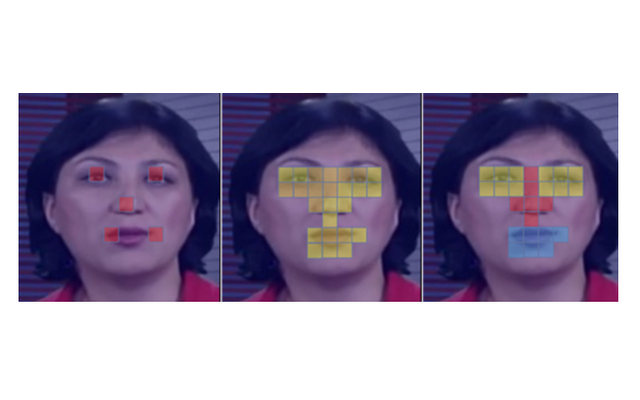
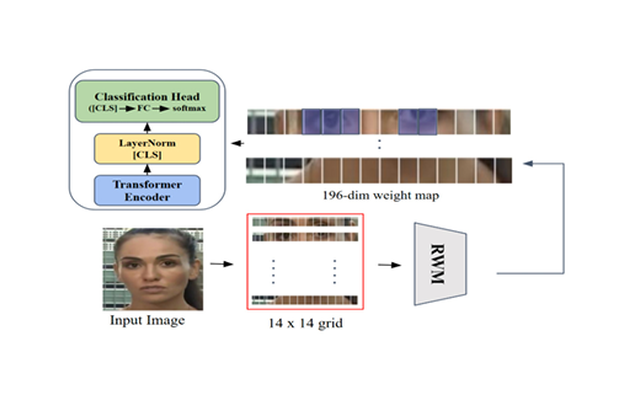
Use overview figures for publications and fix the LG Aimers final rank
The LG Aimers final result is 18th of 33 teams, as on DACON. Rebuild
both CVs.

diff --git a/README_EN.md b/README_EN.md
@@ -16,7 +16,7 @@ I am an undergraduate student in Computer Engineering at Hanbat National Univers
 
 - **2026.10** &nbsp; Finished the SPOT-DETR manuscript; preparing to submit it.
 - **2026.10** &nbsp; **6th of 138 teams**, 2026 National Park Satellite Monitoring AI Challenge.
-- **2026.09** &nbsp; **Finalist in the LG Aimers 9th cohort hackathon** (96 of 3,393 participants), 15th in the final; 29th of 1,090 teams online.
+- **2026.09** &nbsp; **Finalist in the LG Aimers 9th cohort hackathon** (96 of 3,393 participants), 18th of 33 teams in the final; 29th of 1,090 teams online.
 - **2026.03** &nbsp; YOLO-Dos published in the Journal of IKEEE.
 - **2025** &nbsp; ViT-based deepfake detection paper published in the Journal of Digital Forensics.
 - **2025** &nbsp; 16th of 271 teams, 2025 SW-Centered University Digital Competition (AI track).
@@ -91,7 +91,7 @@ Upload a satellite or aerial image and see SPOT-DETR and the SMWG-DETR baseline 
 | Result | Competition | Year |
 |---|---|:---:|
 | **Grand Prize** | [6th AI SPARK Challenge](https://aifactory.space/task/2723/overview) (Korea R&D Special Zones) · wildfire detection from multispectral satellite imagery | 2024 |
-| **Finalist** (96 of 3,393 participants) · **15th** in the final | **LG Aimers 9th cohort hackathon** · pitch control prediction · [online round](https://dacon.io/competitions/official/236743/overview/description) 29th of 1,090 teams (top 3%) · [final](https://dacon.io/competitions/official/236767/overview/description) | 2026 |
+| **Finalist** (96 of 3,393 participants) · **18th of 33 teams** in the final | **LG Aimers 9th cohort hackathon** · pitch control prediction · [online round](https://dacon.io/competitions/official/236743/overview/description) 29th of 1,090 teams (top 3%) · [final](https://dacon.io/competitions/official/236767/overview/description) | 2026 |
 | **6th / 138** (top 5%) | [2026 National Park Satellite Monitoring AI Challenge](https://aifactory.space/ko/competitions/9307) · Track 4: coastal debris detection and size estimation | 2026 |
 | **16th / 271** (top 6%) | [2025 SW-Centered University Digital Competition](https://dacon.io/competitions/official/236473/overview/description) · AI track | 2025 |
 | **85th / 985** (top 9%) | [3rd Wind Power Generation Forecasting AI Competition](https://dacon.io/competitions/official/236727/overview/description) (BARAM 2026) | 2026 |

diff --git a/README.md b/README.md
@@ -16,7 +16,7 @@
 
 - **2026.10** &nbsp; SPOT-DETR 원고 완성, 투고 준비 중
 - **2026.10** &nbsp; 2026 국립공원 위성 모니터링 AI 챌린지 **6위 / 138팀**
-- **2026.09** &nbsp; **LG Aimers 9기 결선 진출**(3,393명 중 96명), 결선 15위 · 온라인 예선 29위 / 1,090팀
+- **2026.09** &nbsp; **LG Aimers 9기 결선 진출**(3,393명 중 96명), 결선 18위 / 33팀 · 온라인 예선 29위 / 1,090팀
 - **2026.03** &nbsp; YOLO-Dos, 전기전자학회논문지 게재
 - **2025** &nbsp; ViT 기반 딥페이크 탐지 논문, 디지털포렌식연구 게재
 - **2025** &nbsp; 2025 SW중심대학 디지털 경진대회 AI부문 16위 / 271팀
@@ -91,7 +91,7 @@
 | 결과 | 대회 | 연도 |
 |---|---|:---:|
 | **대상** | [제6회 연구개발특구 AI SPARK 챌린지](https://aifactory.space/task/2723/overview) · 위성 다분광 영상 기반 산불 탐지 | 2024 |
-| **결선 진출**(3,393명 중 96명) · 결선 **15위** | **LG Aimers 9기 해커톤** · 투구 제구 성공 확률 예측 · [온라인 예선](https://dacon.io/competitions/official/236743/overview/description) 1,090팀 중 29위(상위 3%) · [오프라인 결선](https://dacon.io/competitions/official/236767/overview/description) | 2026 |
+| **결선 진출**(3,393명 중 96명) · 결선 **18위 / 33팀** | **LG Aimers 9기 해커톤** · 투구 제구 성공 확률 예측 · [온라인 예선](https://dacon.io/competitions/official/236743/overview/description) 1,090팀 중 29위(상위 3%) · [오프라인 결선](https://dacon.io/competitions/official/236767/overview/description) | 2026 |
 | **6위 / 138팀**(상위 5%) | [2026 국립공원 위성 모니터링 AI 챌린지](https://aifactory.space/ko/competitions/9307) · 주제 4: 해안 쓰레기 탐지 및 규모 추정 | 2026 |
 | **16위 / 271팀**(상위 6%) | [2025 SW중심대학 디지털 경진대회](https://dacon.io/competitions/official/236473/overview/description) · AI부문 | 2025 |
 | **85위 / 985팀**(상위 9%) | [제3회 풍력발전량 예측 AI 경진대회](https://dacon.io/competitions/official/236727/overview/description) (BARAM 2026) | 2026 |

diff --git a/CV_EN.md b/CV_EN.md
@@ -39,7 +39,7 @@ Computer vision, object detection in satellite imagery (optical, aerial and SAR)
 
 **Grand Prize, 6th AI SPARK Challenge** &nbsp;·&nbsp; wildfire detection from multispectral satellite imagery · 2024
 
-**Finalist (96 of 3,393) · 15th in the final, LG Aimers 9th cohort hackathon** &nbsp;·&nbsp; 29th of 1,090 teams online (top 3%) · 2026
+**Finalist (96 of 3,393) · 18th of 33 teams in the final, LG Aimers 9th cohort hackathon** &nbsp;·&nbsp; 29th of 1,090 teams online (top 3%) · 2026
 
 **6th of 138 teams (top 5%), National Park Satellite Monitoring AI Challenge** &nbsp;·&nbsp; coastal debris · 2026
 

diff --git a/CV.md b/CV.md
@@ -39,7 +39,7 @@
 
 **대상, 제6회 연구개발특구 AI SPARK 챌린지** &nbsp;·&nbsp; 위성 다분광 영상 기반 산불 탐지 · 2024
 
-**결선 진출(3,393명 중 96명) · 결선 15위, LG Aimers 9기 해커톤** &nbsp;·&nbsp; 온라인 예선 1,090팀 중 29위(상위 3%) · 2026
+**결선 진출(3,393명 중 96명) · 결선 18위 / 33팀, LG Aimers 9기 해커톤** &nbsp;·&nbsp; 온라인 예선 1,090팀 중 29위(상위 3%) · 2026
 
 **6위 / 138팀(상위 5%), 2026 국립공원 위성 모니터링 AI 챌린지** &nbsp;·&nbsp; 해안 쓰레기 탐지 및 규모 추정 · 2026
 
